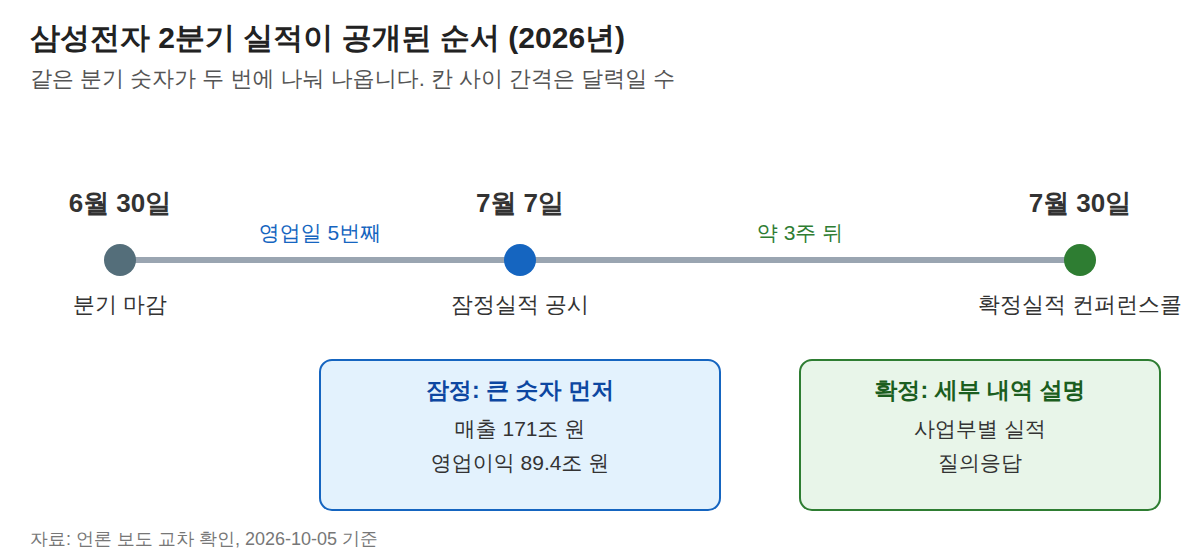
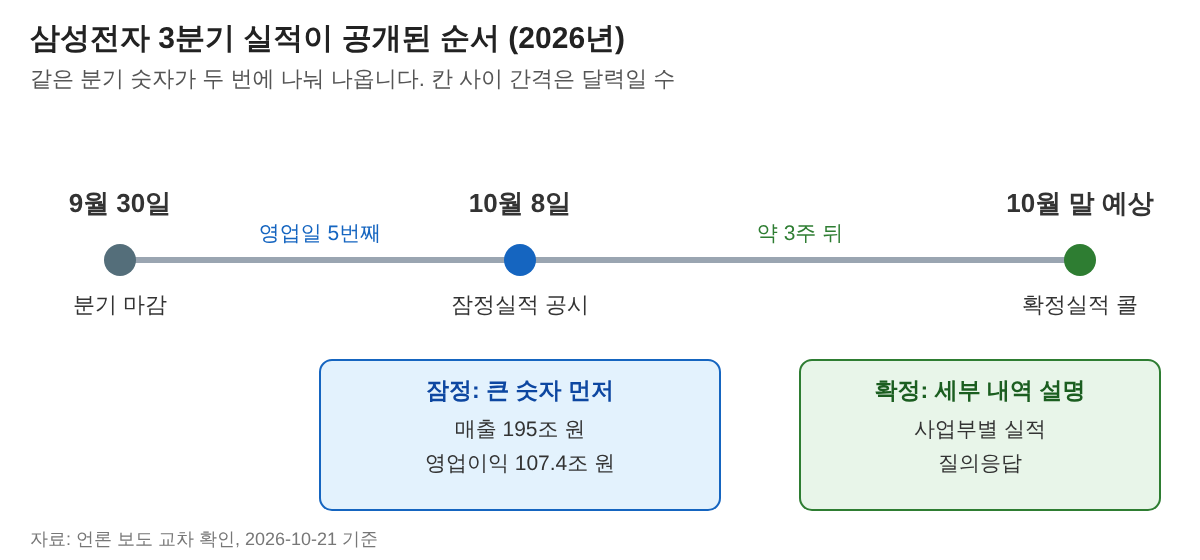
136편 갱신(티스토리 재반영 필요): 삼성전자 실적발표일 3분기 잠정실적 반영, 그림·큐 갱신
Claude-Session: https://claude.ai/code/session_015XiPwcHpAmcPC5uEQ4nSoH

diff --git a/stock_drafts/samsung-earnings-release-guide.md b/stock_drafts/samsung-earnings-release-guide.md
@@ -1,10 +1,10 @@
 ---
-keyword: 삼성전자 실적발표
-title: 삼성전자 실적발표 잠정과 확정 차이
+keyword: 삼성전자 실적발표일
+title: 삼성전자 실적발표일 3분기 잠정과 확정
 slug: samsung-earnings-release-guide
 keyword_class: automatable
 publish_effort: oneclick
-monthly_search_volume: 7250 (PC 1420 / 모바일 5830)
+monthly_search_volume: 15250 (PC 2750 / 모바일 12500, 2026-10-21 실측. 이전 키워드 삼성전자 실적발표 7250)
 gate1_pass: true (일반 주제 기준 월 500 이상 필요)
 serp_check: |
   [게이트2 v3 판정 2026-10-05 - 통과] WebSearch(미국 기준, 참고용) 상위: 다음뉴스 이슈 모음 / 뉴시스(언론) / bullstory.io(소규모 콘텐츠 사이트, 2건) / 1minutepost.com(개인·소규모) / a-ha.io(Q&A) / 삼성 뉴스룸.
@@ -23,16 +23,18 @@ primary_source: |
   - 컨퍼런스콜 7/30 오전 10시: 검색 결과 요약(삼성 IR 안내 인용 보도) 기준. 뉴시스는 7/29자로 확정실적 공개를 보도해 정확한 확정 공개일은 본문에 쓰지 않고 "약 3주 뒤"로 표기.
   - 3분기 발표일: 머니투데이(10/5)·서울경제 등 10월 8일, sano 제목은 7일로 엇갈려 날짜를 단정하지 않음.
   - 세율·공제 수치는 쓰지 않음.
-기준일: 2026년 10월 5일 기준
-refresh_due: 2026-10-09
-refresh_reason: "3분기 잠정실적 공시(10/7~8) 직후 실제 숫자와 컨센서스 대비 표를 3분기 사례로 교체"
-tags: 삼성전자 실적발표, 삼성전자 잠정실적, 삼성전자 확정실적, 삼성전자 3분기 실적, 실적발표일, 컨센서스 상회율, 영업이익률 계산, 컨퍼런스콜, DART 공시 보는 법, 삼성전자 영업이익
+기준일: 2026년 10월 21일 기준
+refresh_due: 2026-10-31
+refresh_reason: "3분기 확정실적 컨퍼런스콜(10월 말 예상, 날짜 미확정) 직후 확정 숫자와 주주환원 내용으로 교체"
+updated: "2026-10-21 갱신(티스토리 재반영 필요): 2분기 사례를 3분기 잠정실적(10/8 공시)으로 교체, 키워드를 삼성전자 실적발표일로 확장"
+tags: 삼성전자 실적발표일, 삼성전자 3분기 실적, 삼성전자 실적발표, 삼성전자 잠정실적, 삼성전자 확정실적, 삼성전자 3분기 실적, 실적발표일, 컨센서스 상회율, 영업이익률 계산, 컨퍼런스콜, DART 공시 보는 법, 삼성전자 영업이익
 cannibalization_note: |
   82편(컨센서스 뜻과 확인 방법)은 컨센서스·서프라이즈 개념과 계산, 126편(삼성전자 배당금)은 배당 일정. 이 글은 삼성전자 실적 공개 단계(잠정·확정)와 공시 확인 순서 중심이며 두 글로 내부 링크.
 gate_pass: true
 gate_pass_note: |
   게이트1 6,860회, 게이트2 v3 통과, 게이트3 비교표·상회율 계산, 게이트4 언론 5곳 수렴(원문 미열람). 사람이 발행 전 DART 삼성전자 2분기 영업(잠정)실적 공시와 대조하고, 3분기 발표(10/7~8) 이후라면 refresh_due대로 3분기 숫자로 교체.
 self_check: |
+  [2026-10-21 갱신] 3분기 잠정(10/8 공시, 매출 195조·영업이익 107.4조)과 FnGuide 컨센서스(매출 200.6417조·영업이익 106.6401조, 10/7 보도)로 본문·표·그림 교체. 잠정 값은 더밸류뉴스·삼성반도체이야기·스톡허브 등 일치, 컨센서스는 FnGuide 단일 집계라 본문에 명시. 확정실적 날짜는 확인 못 해 '10월 말 예상, 날짜 미확정'으로만 적음. 107.4조·195조 값은 samsung-operating-profit-quarterly-trend 검증값과 같음. 첫 문장 유형: 절차형 아님, 수치(이미 나온 잠정 + 다음 단계) 직답형. AI 티 점검: em대시 0개, 다만 0회.
   [2026-10-05 gate_pass:true]
   후보 경위: backlog.verified의 삼성전자 실적발표(6,860, 10/4 실측)를 채택. 옵션만기일(6,650)은 60편 갱신 후보로 유지.
   YMYL: 종목 추천·목표가·전망 없음. 3분기 컨센서스 수치는 미사용(단일 출처).
@@ -42,19 +44,19 @@ self_check: |
   기관 안내 문장 DART 링크 처리, 출처 목록 8개 전부 링크 처리.
   내부 링크: 82편(published)·60편(published)·126편(drafted, 발행 순서 주의).
   AI 티 점검: em대시 0개, 다만 0회, mark 2개(3~5개 권장보다 적음, 핵심 문장에만), FAQ 5개, FAQ 헤딩 "자주 오는 질문 다섯 가지"(신규), 요약박스 제목 "📋 발표 날 보기 전에"(신규, 청록), H2 6개 중 "~입니까"형 1개.
-figure_plan: "1장으로 충분 - 잠정·확정 공개 순서 타임라인. 표 두 개는 비교·계산용"
+figure_plan: "1장으로 충분 - 3분기 잠정·확정 공개 순서 타임라인. 표 두 개는 비교·계산용"
 ---
 
-<p style="font-size:13px;color:#888;">최종 검토일: 2026-10-05</p>
+<p style="font-size:13px;color:#888;">최종 검토일: 2026-10-21</p>
 
-<p>삼성전자의 같은 분기 실적은 두 번 나옵니다. 2분기에는 7월 7일에 잠정실적이, 7월 30일에 확정실적 설명이 이어졌습니다. 어느 숫자를 언제 봐야 하는지 순서대로 정리했습니다.</p>
+<p>삼성전자 3분기 실적은 이미 10월 8일 잠정 공시로 나왔고, 세부 내역을 담은 확정실적은 10월 말에 이어질 것으로 보입니다. 잠정은 매출 195조 원, 영업이익 107조 4,000억 원이었습니다. 두 단계가 어떻게 다르고 어디서 보는지 3분기 숫자로 풀어 봅니다.</p>
 
 <div style="background:#ecfdf5;border:2px solid #0f766e;border-radius:10px;padding:16px 20px;margin:24px 0;">
   <strong style="color:#115e59;font-size:18px;">📋 발표 날 보기 전에</strong>
   <ul style="margin:10px 0 0 0;padding-left:20px;line-height:1.8;">
     <li>잠정실적은 큰 숫자만, 확정실적은 세부 내역을 담습니다.</li>
-    <li>2분기 잠정 영업이익 89조 4,000억 원은 컨센서스를 3.7~6.2% 웃돌았습니다.</li>
-    <li>컨센서스는 집계 시점과 기관마다 달라서 기준을 먼저 정해야 합니다.</li>
+    <li>3분기 잠정 영업이익 107조 4,000억 원은 FnGuide 컨센서스(106조 6,401억 원)보다 0.7% 많았고, 매출은 2.8% 적었습니다.</li>
+    <li>확정실적은 10월 말로 예상되지만 날짜 공지는 확인하지 못했으니 삼성전자 IR 안내를 기다려야 합니다.</li>
   </ul>
 </div>
 
@@ -63,7 +65,7 @@ figure_plan: "1장으로 충분 - 잠정·확정 공개 순서 타임라인. 표
 <ol style="line-height:1.9;">
   <li><a href="#sec-1" style="color:inherit;text-decoration:underline;text-underline-offset:3px;">잠정실적과 확정실적은 무엇이 다릅니까</a></li>
   <li><a href="#sec-2" style="color:inherit;text-decoration:underline;text-underline-offset:3px;">분기별 발표일을 가늠하는 법</a></li>
-  <li><a href="#sec-3" style="color:inherit;text-decoration:underline;text-underline-offset:3px;">2분기 실적을 컨센서스와 맞춰 보는 계산</a></li>
+  <li><a href="#sec-3" style="color:inherit;text-decoration:underline;text-underline-offset:3px;">3분기 실적을 컨센서스와 맞춰 보는 계산</a></li>
   <li><a href="#sec-4" style="color:inherit;text-decoration:underline;text-underline-offset:3px;">공시 원문을 여는 순서</a></li>
   <li><a href="#sec-5" style="color:inherit;text-decoration:underline;text-underline-offset:3px;">숫자가 나온 뒤 읽어야 할 항목</a></li>
   <li><a href="#sec-6" style="color:inherit;text-decoration:underline;text-underline-offset:3px;">자주 오는 질문 다섯 가지</a></li>
@@ -71,61 +73,60 @@ figure_plan: "1장으로 충분 - 잠정·확정 공개 순서 타임라인. 표
 
 <h2 id="sec-1" style="scroll-margin-top:72px;border-left:6px solid #0f766e;padding-left:12px;margin-top:36px;">잠정실적과 확정실적은 무엇이 다릅니까</h2>
 
-<p>잠정실적은 회계감사 전에 먼저 알리는 큰 숫자이고, 확정실적은 세부 내역까지 풀어 주는 설명입니다. 2분기 기준으로 두 단계를 비교하면 아래와 같습니다.</p>
+<p>잠정실적은 회계감사 전에 먼저 알리는 큰 숫자이고, 확정실적은 세부 내역까지 풀어 주는 설명입니다. 3분기 사례로 두 단계를 비교하면 아래와 같습니다.</p>
 
 <table style="width:100%;border-collapse:collapse;margin:16px 0;">
   <thead>
     <tr><th style="border:1px solid #ddd;padding:8px;background:#f0f0f0;">구분</th><th style="border:1px solid #ddd;padding:8px;background:#f0f0f0;">잠정실적</th><th style="border:1px solid #ddd;padding:8px;background:#f0f0f0;">확정실적</th></tr>
   </thead>
   <tbody>
-    <tr><td style="border:1px solid #ddd;padding:8px;">공개 시점</td><td style="border:1px solid #ddd;padding:8px;">분기 마감 후 영업일 5번째 안팎 (2분기는 7월 7일)</td><td style="border:1px solid #ddd;padding:8px;">약 3주 뒤 (2분기 컨퍼런스콜은 7월 30일 오전 10시)</td></tr>
+    <tr><td style="border:1px solid #ddd;padding:8px;">공개 시점</td><td style="border:1px solid #ddd;padding:8px;">분기 마감 후 영업일 5번째 안팎 (3분기는 10월 8일)</td><td style="border:1px solid #ddd;padding:8px;">약 3주 뒤 (3분기는 10월 말 예상, 날짜 미확정. 2분기는 7월 30일)</td></tr>
     <tr><td style="border:1px solid #ddd;padding:8px;">담기는 내용</td><td style="border:1px solid #ddd;padding:8px;">매출과 영업이익 등 큰 숫자</td><td style="border:1px solid #ddd;padding:8px;">사업부별 세부 내역과 경영진 설명, 질의응답</td></tr>
     <tr><td style="border:1px solid #ddd;padding:8px;">회계감사</td><td style="border:1px solid #ddd;padding:8px;">감사 전 집계</td><td style="border:1px solid #ddd;padding:8px;">감사 결과 반영</td></tr>
     <tr><td style="border:1px solid #ddd;padding:8px;">어디서 보나</td><td style="border:1px solid #ddd;padding:8px;">전자공시와 삼성전자 뉴스룸</td><td style="border:1px solid #ddd;padding:8px;">삼성전자 IR 페이지 컨퍼런스콜</td></tr>
     </tbody>
 </table>
 
-<p>2분기 잠정 공시의 숫자는 매출 171조 원, 영업이익 89조 4,000억 원이었습니다. 스타뉴스, 서울경제, 뉴스1 등이 같은 수치를 보도했습니다.</p>
+<p>3분기 잠정 공시의 숫자는 매출 195조 원, 영업이익 107조 4,000억 원이었습니다. 직전 분기보다 매출은 13.7%, 영업이익은 20.0% 늘었고, 1년 전보다는 영업이익이 782.5% 늘었습니다. 더밸류뉴스와 삼성반도체이야기 등이 같은 수치를 전했습니다.</p>
 
-<figure style="margin:24px 0;"><img src="https://raw.githubusercontent.com/leoleo0813/blog-automation/main/assets/figures/samsung-earnings-release-guide-1.png" alt="삼성전자 2분기 실적 공개 순서. 6월 30일 분기 마감, 7월 7일 잠정실적 공시(매출 171조 원, 영업이익 89.4조 원), 7월 30일 확정실적 컨퍼런스콜" style="max-width:100%;"><figcaption style="font-size:13px;color:#888;">자료: 언론 보도 교차 확인, 2026-10-05 기준</figcaption></figure>
+<figure style="margin:24px 0;"><img src="https://raw.githubusercontent.com/leoleo0813/blog-automation/main/assets/figures/samsung-earnings-release-guide-1.png" alt="삼성전자 3분기 실적 공개 순서. 9월 30일 분기 마감, 10월 8일 잠정실적 공시(매출 195조 원, 영업이익 107.4조 원), 10월 말 확정실적 컨퍼런스콜 예상" style="max-width:100%;"><figcaption style="font-size:13px;color:#888;">자료: 언론 보도 교차 확인, 2026-10-21 기준</figcaption></figure>
 
 <h2 id="sec-2" style="scroll-margin-top:72px;border-left:6px solid #0f766e;padding-left:12px;margin-top:36px;">분기별 발표일을 가늠하는 법</h2>
 
-<p>2분기는 6월 30일 마감 뒤 영업일로 5번째인 7월 7일에 잠정실적이 나왔습니다. 7월 1일, 2일, 3일, 6일, 7일을 세면 맞습니다.</p>
+<p>3분기는 9월 30일 마감 뒤 영업일로 5번째인 10월 8일에 잠정실적이 나왔습니다. 10월 1일, 2일, 6일, 7일, 8일을 세면 맞고, 3일(토)의 대체공휴일인 5일은 뺍니다.</p>
 
-<p>이 간격이 규정은 아니고 최근 사례에서 보인 패턴입니다. 3분기 잠정실적은 다수 언론이 10월 8일 발표 예정으로 보도했지만, 일부 매체는 7일로 적어 엇갈립니다. 그래서 날짜는 삼성전자 공시와 IR 안내로 최종 확인해야 합니다.</p>
+<p>이 간격이 규정은 아니고 최근 사례에서 보인 패턴입니다. 2분기는 7월 7일, 3분기는 10월 8일이었습니다. 확정실적 날짜는 올해 공지를 확인하지 못했으니, 삼성전자 IR 안내가 나오면 그 날짜를 따라야 합니다.</p>
 
 <div style="background:#fffbeb;border:1px solid #f59e0b;border-radius:8px;padding:14px 18px;margin:16px 0;">
   <strong>💡 날짜를 세는 방법</strong>
   <ol style="margin:8px 0 0 0;padding-left:20px;line-height:1.8;">
-    <li>분기 마지막 날(3분기는 9월 30일)을 0으로 둡니다.</li>
+    <li>분기 마지막 날(4분기는 12월 31일)을 0으로 둡니다.</li>
     <li>주말과 공휴일을 빼고 영업일을 5번 셉니다.</li>
     <li>그 날짜 전후를 공시 예정일로 보고 증권사 앱 캘린더와 맞춰 봅니다.</li>
   </ol>
 </div>
 
-<h2 id="sec-3" style="scroll-margin-top:72px;border-left:6px solid #0f766e;padding-left:12px;margin-top:36px;">2분기 실적을 컨센서스와 맞춰 보는 계산</h2>
+<h2 id="sec-3" style="scroll-margin-top:72px;border-left:6px solid #0f766e;padding-left:12px;margin-top:36px;">3분기 실적을 컨센서스와 맞춰 보는 계산</h2>
 
-<p>같은 2분기인데 컨센서스 영업이익이 84조 원대에서 86조 원대까지 보도마다 달랐습니다. <mark>컨센서스는 집계 시점과 기관에 따라 달라지므로 어느 숫자와 비교했는지 같이 봐야 합니다.</mark></p>
+<p>3분기 영업이익은 컨센서스를 0.7% 웃돌았고 매출은 2.8% 밑돌았습니다. <mark>컨센서스는 집계 시점과 기관에 따라 달라지므로 어느 숫자와 비교했는지 같이 봐야 합니다.</mark> 아래 표는 발표 전날인 10월 7일 보도된 FnGuide 집계 한 종류만 썼습니다.</p>
 
 <table style="width:100%;border-collapse:collapse;margin:16px 0;">
   <thead>
-    <tr><th style="border:1px solid #ddd;padding:8px;background:#f0f0f0;">컨센서스 집계</th><th style="border:1px solid #ddd;padding:8px;background:#f0f0f0;">영업이익 컨센서스</th><th style="border:1px solid #ddd;padding:8px;background:#f0f0f0;">실제 잠정 영업이익</th><th style="border:1px solid #ddd;padding:8px;background:#f0f0f0;">차이</th><th style="border:1px solid #ddd;padding:8px;background:#f0f0f0;">상회율</th></tr>
+    <tr><th style="border:1px solid #ddd;padding:8px;background:#f0f0f0;">항목</th><th style="border:1px solid #ddd;padding:8px;background:#f0f0f0;">FnGuide 컨센서스</th><th style="border:1px solid #ddd;padding:8px;background:#f0f0f0;">실제 잠정</th><th style="border:1px solid #ddd;padding:8px;background:#f0f0f0;">차이</th><th style="border:1px solid #ddd;padding:8px;background:#f0f0f0;">차이 비율</th></tr>
   </thead>
   <tbody>
-    <tr><td style="border:1px solid #ddd;padding:8px;">보도 A (7월 보도)</td><td style="border:1px solid #ddd;padding:8px;">84조 1,606억 원</td><td style="border:1px solid #ddd;padding:8px;">89조 4,000억 원</td><td style="border:1px solid #ddd;padding:8px;">5조 2,394억 원</td><td style="border:1px solid #ddd;padding:8px;">6.2%</td></tr>
-    <tr><td style="border:1px solid #ddd;padding:8px;">보도 B</td><td style="border:1px solid #ddd;padding:8px;">85조 5,000억 원</td><td style="border:1px solid #ddd;padding:8px;">89조 4,000억 원</td><td style="border:1px solid #ddd;padding:8px;">3조 9,000억 원</td><td style="border:1px solid #ddd;padding:8px;">4.6%</td></tr>
-    <tr><td style="border:1px solid #ddd;padding:8px;">보도 C (6월 9일 기준)</td><td style="border:1px solid #ddd;padding:8px;">86조 1,705억 원</td><td style="border:1px solid #ddd;padding:8px;">89조 4,000억 원</td><td style="border:1px solid #ddd;padding:8px;">3조 2,295억 원</td><td style="border:1px solid #ddd;padding:8px;">3.7%</td></tr>
+    <tr><td style="border:1px solid #ddd;padding:8px;">영업이익</td><td style="border:1px solid #ddd;padding:8px;">106조 6,401억 원</td><td style="border:1px solid #ddd;padding:8px;">107조 4,000억 원</td><td style="border:1px solid #ddd;padding:8px;">+7,599억 원</td><td style="border:1px solid #ddd;padding:8px;">+0.7%</td></tr>
+    <tr><td style="border:1px solid #ddd;padding:8px;">매출</td><td style="border:1px solid #ddd;padding:8px;">200조 6,417억 원</td><td style="border:1px solid #ddd;padding:8px;">195조 원</td><td style="border:1px solid #ddd;padding:8px;">-5조 6,417억 원</td><td style="border:1px solid #ddd;padding:8px;">-2.8%</td></tr>
     </tbody>
 </table>
 
 <ul style="line-height:1.9;">
-  <li>상회율 계산식: (실제 영업이익 − 컨센서스) ÷ 컨센서스</li>
-  <li>보도 A 예시: (89.4조 − 84.1606조) ÷ 84.1606조 = 약 6.2%</li>
-  <li>보도 C 예시: (89.4조 − 86.1705조) ÷ 86.1705조 = 약 3.7%</li>
+  <li>차이 비율 계산식: (실제 − 컨센서스) ÷ 컨센서스</li>
+  <li>영업이익 예시: (107.4조 − 106.6401조) ÷ 106.6401조 = 약 0.7%</li>
+  <li>매출 예시: (195조 − 200.6417조) ÷ 200.6417조 = 약 -2.8%</li>
 </ul>
 
-<p>영업이익률도 같은 방식으로 구합니다. 89.4조 ÷ 171조 = 약 52.3%이고, 이 숫자는 잠정 공시의 매출과 영업이익에서 바로 나옵니다. 컨센서스 개념 자체는 <a href="https://sensitiveboss3.tistory.com/entry/consensus-estimate-check-guide" target="_blank" rel="noopener">컨센서스 뜻과 확인 방법 글</a>에서 따로 다뤘습니다.</p>
+<p>영업이익률도 같은 방식으로 구합니다. 107.4조 ÷ 195조 = 약 55.1%이고, 이 숫자는 잠정 공시의 매출과 영업이익에서 바로 나옵니다. 컨센서스 개념 자체는 <a href="https://sensitiveboss3.tistory.com/entry/consensus-estimate-check-guide" target="_blank" rel="noopener">컨센서스 뜻과 확인 방법 글</a>에서 따로 다뤘고, 분기별 흐름은 <a href="https://sensitiveboss3.tistory.com/entry/samsung-operating-profit-quarterly-trend" target="_blank" rel="noopener">삼성전자 분기 영업이익 추이 글</a>에서 이어서 볼 수 있습니다.</p>
 
 <h2 id="sec-4" style="scroll-margin-top:72px;border-left:6px solid #0f766e;padding-left:12px;margin-top:36px;">공시 원문을 여는 순서</h2>
 
@@ -152,7 +153,7 @@ figure_plan: "1장으로 충분 - 잠정·확정 공개 순서 타임라인. 표
   <li>컨센서스 대비: 시장이 기대한 수준과 얼마나 달랐는지 봅니다.</li>
 </ul>
 
-<p><mark>2분기에는 영업이익이 컨센서스를 웃돌았는데도 시장 기대가 더 높았다는 보도와 함께 주가가 내렸습니다.</mark> 실적 숫자와 가격 반응은 별개로 움직일 수 있다는 사례입니다.</p>
+<p><mark>실적이 컨센서스를 웃돌아도 주가가 같은 방향으로 움직이라는 보장은 없습니다.</mark> 이번 3분기도 영업이익은 컨센서스보다 많았지만 매출은 밑돌았기 때문에, 시장이 어느 숫자에 무게를 두는지에 따라 반응이 갈릴 수 있습니다.</p>
 
 <p>배당처럼 실적과 맞물린 일정은 <a href="https://sensitiveboss3.tistory.com/entry/samsung-electronics-dividend-q3-2026" target="_blank" rel="noopener">삼성전자 배당금 3분기 글</a>에서, 같은 주에 겹칠 수 있는 파생 만기는 <a href="https://sensitiveboss3.tistory.com/entry/quadruple-witching-day-2026" target="_blank" rel="noopener">네마녀의 날 일정 글</a>에서 따로 볼 수 있습니다.</p>
 
@@ -172,7 +173,7 @@ figure_plan: "1장으로 충분 - 잠정·확정 공개 순서 타임라인. 표
 </details>
 <details style="border:1px solid #ddd;border-radius:8px;padding:12px 16px;margin:10px 0;">
   <summary style="font-weight:bold;cursor:pointer;">영업이익이 컨센서스보다 높으면 주가도 오릅니까?</summary>
-  <p style="margin:10px 0 0 0;">그렇지 않은 사례가 있습니다. 2분기에는 영업이익이 컨센서스를 웃돌았는데도 시장이 더 높은 숫자를 기대했다는 보도와 함께 주가가 내렸습니다.</p>
+  <p style="margin:10px 0 0 0;">그렇지 않은 사례가 있습니다. 2분기에는 영업이익이 컨센서스를 웃돌았는데도 시장이 더 높은 숫자를 기대했다는 보도와 함께 주가가 내렸습니다. 숫자가 높다는 사실과 가격 반응은 따로 움직일 수 있습니다.</p>
 </details>
 <details style="border:1px solid #ddd;border-radius:8px;padding:12px 16px;margin:10px 0;">
   <summary style="font-weight:bold;cursor:pointer;">잠정실적 공시는 어디서 원문을 보나요?</summary>
@@ -188,27 +189,29 @@ figure_plan: "1장으로 충분 - 잠정·확정 공개 순서 타임라인. 표
     <li><a href="https://www.news1.kr/industry/general-industry/6243309" target="_blank" rel="noopener">뉴스1 - 삼성전자 사상 최대 2Q 실적 발표</a></li>
     <li><a href="https://v.daum.net/v/20260611075702898" target="_blank" rel="noopener">다음뉴스(2026-06-11) - 삼성전자 2분기 영업이익 전망 평균치 86조원</a></li>
     <li><a href="https://v.daum.net/v/20260707080903840" target="_blank" rel="noopener">다음뉴스(2026-07-07) - 삼성전자 2분기 실적발표 기대보다 낮아</a></li>
-    <li><a href="https://www.mt.co.kr/amp/stock/2026/10/05/2026100217315021825" target="_blank" rel="noopener">머니투데이 - 삼성전자 실적 D-3 (2026-10-05)</a></li>
+    <li><a href="https://www.thevaluenews.co.kr/news/202190" target="_blank" rel="noopener">더밸류뉴스 - 삼성전자 3분기 잠정 매출 195조·영업이익 107.4조</a></li>
+    <li><a href="https://news.samsungsemiconductor.com/kr/?p=37675" target="_blank" rel="noopener">삼성반도체이야기 - 3분기 잠정실적</a></li>
+    <li><a href="https://www.stockhub.kr/insights/view_1791420339349_rirmz2bfh-samsung-electronics-005930-cy26-q3-preliminary-earnings-20261008" target="_blank" rel="noopener">스톡허브 - 삼성전자 3분기 잠정실적 컨센서스 비교 (2026-10-08)</a></li>
     <li><a href="https://dart.fss.or.kr" target="_blank" rel="noopener">금융감독원 전자공시시스템(DART)</a></li>
   </ul>
-  기준일: 2026년 10월 5일. 삼성전자 IR 페이지와 DART 원문은 이 환경에서 열람하지 못해 언론 보도 5곳 이상을 교차 대조했습니다. 컨센서스 값은 보도마다 집계 시점이 달라 세 가지를 모두 적었습니다.
+  기준일: 2026년 10월 21일. 삼성전자 IR 페이지와 DART 원문은 이 환경에서 열람하지 못해 언론 보도를 교차 대조했습니다. 3분기 컨센서스는 FnGuide 집계 한 종류만 확인했고, 2분기 값은 앞선 보도 기준입니다.
 </div>
 
 <p style="font-size:13px;color:#777;margin-top:16px;line-height:1.8;">
-이 글은 실적 발표 구조를 정리한 정보 글이며 특정 종목의 매수·매도를 권하지 않습니다. 투자 판단과 그에 따른 결과는 투자자 본인의 책임입니다. 일정과 수치는 바뀔 수 있으니 공시 원문의 최신 내용을 기준으로 삼아 주십시오.
+이 글은 실적 발표 일정과 구조를 알리는 정보 글이며 특정 종목의 매수·매도를 권하지 않습니다. 투자 판단과 그에 따른 결과는 투자자 본인의 책임입니다. 일정과 수치는 바뀔 수 있으니 공시 원문의 최신 내용을 기준으로 삼아 주십시오.
 </p>
 
 <script type="application/ld+json">
 {
   "@context": "https://schema.org",
   "@type": "Article",
-  "headline": "삼성전자 실적발표 잠정과 확정 차이",
-  "description": "삼성전자 실적발표가 잠정과 확정 두 단계로 나뉘는 이유와 2분기 사례, 컨센서스 대비 계산, 공시 확인 순서를 정리했습니다.",
+  "headline": "삼성전자 실적발표일 3분기 잠정과 확정",
+  "description": "삼성전자 3분기 실적은 10월 8일 잠정 공시로 나왔고 확정실적은 10월 말 예상입니다. 두 단계의 차이와 컨센서스 대비 계산, 공시 확인 순서입니다.",
   "image": "https://raw.githubusercontent.com/leoleo0813/blog-automation/main/assets/figures/samsung-earnings-release-guide-1.png",
   "author": {"@type": "Person", "name": "센시티브보스"},
   "publisher": {"@type": "Person", "name": "센시티브보스"},
   "datePublished": "2026-10-05",
-  "dateModified": "2026-10-05",
+  "dateModified": "2026-10-21",
   "mainEntityOfPage": {"@type": "WebPage", "@id": "https://sensitiveboss3.tistory.com/entry/samsung-earnings-release-guide"}
 }
 </script>
@@ -221,7 +224,7 @@ figure_plan: "1장으로 충분 - 잠정·확정 공개 순서 타임라인. 표
     {"@type": "Question", "name": "잠정실적과 확정실적 숫자가 다르면 어느 쪽이 맞습니까?", "acceptedAnswer": {"@type": "Answer", "text": "확정실적이 최종입니다. 잠정은 감사 전 집계라 미세하게 조정될 수 있고, 이 차이는 확정 공시나 컨퍼런스콜 자료에서 바로 대조할 수 있습니다."}},
     {"@type": "Question", "name": "실적 발표 시각에 매매가 막히나요?", "acceptedAnswer": {"@type": "Answer", "text": "막히지 않습니다. 공시는 정규장 시작 전후에 나오는 경우가 많고, 발표 뒤 가격은 평소처럼 형성됩니다."}},
     {"@type": "Question", "name": "컨퍼런스콜은 일반 투자자도 볼 수 있습니까?", "acceptedAnswer": {"@type": "Answer", "text": "삼성전자 IR 페이지의 안내에 따라 사전 질문 접수와 시청 방법이 공지됩니다. 일정은 분기마다 공고로 바뀝니다."}},
-    {"@type": "Question", "name": "영업이익이 컨센서스보다 높으면 주가도 오릅니까?", "acceptedAnswer": {"@type": "Answer", "text": "그렇지 않은 사례가 있습니다. 2분기에는 영업이익이 컨센서스를 웃돌았는데도 시장이 더 높은 숫자를 기대했다는 보도와 함께 주가가 내렸습니다."}},
+    {"@type": "Question", "name": "영업이익이 컨센서스보다 높으면 주가도 오릅니까?", "acceptedAnswer": {"@type": "Answer", "text": "그렇지 않은 사례가 있습니다. 2분기에는 영업이익이 컨센서스를 웃돌았는데도 시장이 더 높은 숫자를 기대했다는 보도와 함께 주가가 내렸습니다. 숫자가 높다는 사실과 가격 반응은 따로 움직일 수 있습니다."}},
     {"@type": "Question", "name": "잠정실적 공시는 어디서 원문을 보나요?", "acceptedAnswer": {"@type": "Answer", "text": "금융감독원 전자공시(DART)에서 삼성전자를 검색해 최신 공시를 열면 됩니다."}}
   ]
 }

diff --git a/사용자_할일.md b/사용자_할일.md
@@ -1,6 +1,6 @@
 # 사용자 할 일
 
-마지막 갱신: 2026-10-20 · 보류 5편 · 예상 합계 약 38분
+마지막 갱신: 2026-10-21 · 보류 5편 · 예상 합계 약 38분
 
 **보내는 법(공통):** 캡처한 사진을 Claude 대화창에 올리고 "N편 자료"라고만 적어 주세요.
 사진을 받으면 본문을 고치고 보류를 풀어 드립니다. 위에서부터(검색량 큰 순) 하면 효과가 큽니다.
